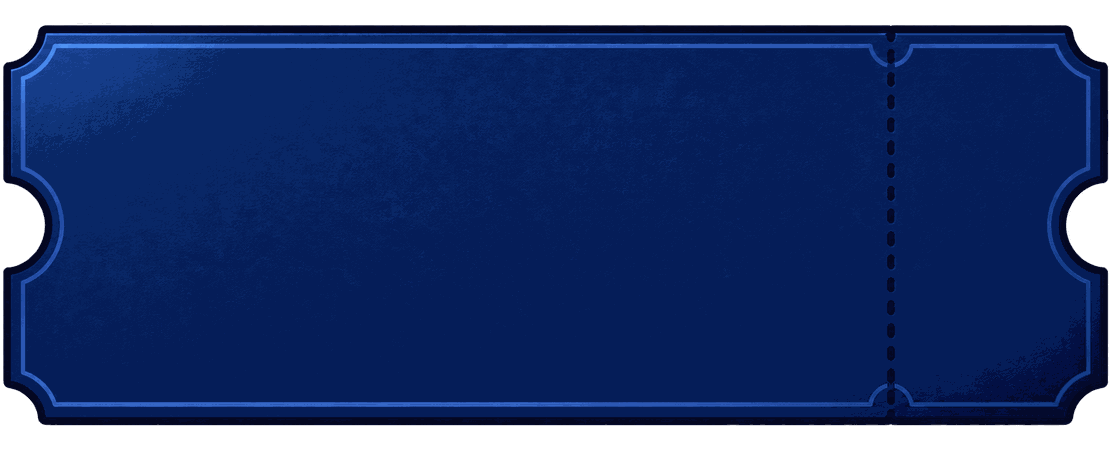
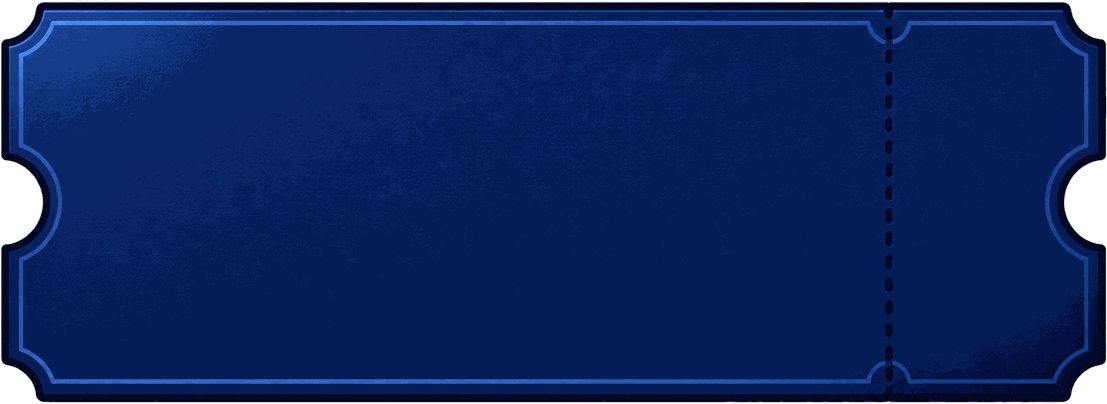
1.) Problem: History tickets were tall with the content crowded into the top half, an empty stub on unranked rounds and wide gaps between rows. 2.) Solution: Show the ticket at its natural size, put the score on the stub of every ticket with the RR change under it, and keep the stats and badges on o

Changed region(s): [[0.0, 0.0, 1.0, 1.0], [0.7986, 0.4752, 0.8293, 0.7129]]

diff --git a/src/styles/components/history.css b/src/styles/components/history.css
@@ -453,30 +453,32 @@
 .historyTrajectoryLegend [data-mode="casual"] i { color: var(--ca-mode-casual); transform: rotate(45deg); }
 .historyTrajectoryLegend [data-mode="ranked"] i { color: var(--ca-mode-ranked); clip-path: polygon(50% 0, 100% 35%, 82% 100%, 18% 100%, 0 35%); }
 
-/* Illustrated match ticket: fixed side slices preserve both punches and the whole stub. */
+/* Illustrated match ticket at its natural height (0.4 scale) so the punches never stretch; the stub always holds the score. */
 .historyRoundCard {
     position: relative;
     min-width: 0;
-    min-height: 232px;
-    padding: 24px 132px 24px 28px;
+    min-height: 162px;
+    display: flex;
+    align-items: center;
+    padding: 12px 112px 12px 36px;
     border: 0 solid transparent;
-    border-image: url('/art/history/ticket.png') 160 240 160 72 fill / 80px 120px 80px 36px / 0 stretch;
+    border-image: url('/art/history/ticket.png') 140 240 140 72 fill / 56px 96px 56px 29px / 0 stretch;
 }
-.historyRoundCardMain { min-width: 0; }
-.historyRoundCardTopline { display: flex; flex-wrap: wrap; align-items: center; gap: 8px; }
+.historyRoundCardMain { display: grid; gap: 14px; min-width: 0; }
+.historyRoundCardTopline { display: flex; flex-wrap: wrap; align-items: center; gap: 8px 10px; }
 .historyRoundCardSignal { width: 32px; height: 32px; object-fit: contain; }
-.historyRoundCardTopline time { color: #c3d5ed; font-size: 11px; }
-.historyRoundCardScore { display: inline-block; margin-top: 8px; color: #f3f7ff; font: 400 30px/1 var(--ca-font-display); }
-.historyRoundCardScoreLabel { margin-left: 8px; color: #b5c9e5; font-size: 10px; font-weight: 800; text-transform: uppercase; }
-.historyRoundCardMeters { display: flex; flex-wrap: wrap; gap: 8px 12px; margin-top: 16px; color: #c3d5ed; font-size: 11px; font-weight: 700; }
-.historyRoundCardMeters span { display: inline-flex; align-items: center; gap: 4px; }
-.historyRoundCardMeters svg { width: 13px; height: 13px; color: var(--scene-accent); }
-.historyRoundCardOutcome { position: absolute; inset: 24px 20px 24px auto; width: 76px; display: flex; flex-direction: column; align-items: center; justify-content: center; gap: 8px; text-align: center; }
-.historyRoundCardOutcome .historyRankBadge { transform: none; border: 0 !important; border-radius: 0 !important; padding: 0; background: none !important; box-shadow: none !important; opacity: 1; font: 400 18px/1.2 var(--ca-font-display); letter-spacing: .02em; }
+.historyRoundCardTopline time { color: #c3d5ed; font-size: 12px; }
+.historyRoundCardMarkers { display: inline-flex; gap: 10px; color: #ffdc80; font: 400 11px/1 var(--ca-font-display); text-transform: uppercase; white-space: nowrap; }
+.historyRoundCardMeters { display: flex; flex-wrap: wrap; gap: 8px 14px; color: #c3d5ed; font-size: 13px; font-weight: 700; }
+.historyRoundCardMeters span { display: inline-flex; align-items: center; gap: 5px; }
+.historyRoundCardMeters svg { width: 14px; height: 14px; color: var(--scene-accent); }
+.historyRoundCardOutcome { position: absolute; inset: 14px 18px 14px auto; width: 66px; display: flex; flex-direction: column; align-items: center; justify-content: center; gap: 2px; text-align: center; }
+.historyRoundCardScore { color: #f3f7ff; font: 400 24px/1 var(--ca-font-display); }
+.historyRoundCardScoreLabel { color: #b5c9e5; font-size: 10px; font-weight: 800; text-transform: uppercase; }
+.historyRoundCardOutcome .historyRankBadge { margin-top: 6px; transform: none; border: 0 !important; border-radius: 0 !important; padding: 0; background: none !important; box-shadow: none !important; opacity: 1; font: 400 15px/1.1 var(--ca-font-display); letter-spacing: .02em; }
 .historyRoundCardOutcome .historyRankBadge.isPositive { color: #6ff0b0; }
 .historyRoundCardOutcome .historyRankBadge.isNegative { color: #ff8a7a; }
-.historyRoundCardOutcome .historyRankBadge.isNeutral { color: #b5c9e5; font-size: 12px; }
-.historyRoundCardOutcome small { color: #ffdc80; font: 400 10px/1.3 var(--ca-font-display); text-transform: uppercase; }
+.historyRoundCardOutcome .historyRankBadge.isNeutral { color: #b5c9e5; font-size: 11px; }
 
 .historyRoundDeck { display: none; }
 
@@ -497,6 +499,8 @@
 
     .historyTableWrap { display: none; }
     .historyRoundDeck { display: grid; gap: 10px; }
+    .historyRoundCard { padding-left: 32px; }
+    .historyRoundCardMeters { display: grid; grid-template-columns: repeat(2, max-content); }
 }
 
 @media (max-width: 430px) {

diff --git a/src/pages/HistoryPage.jsx b/src/pages/HistoryPage.jsx
@@ -238,9 +238,8 @@ function HistoryRoundCard({ round, markers = [] }) {
           <ModeEmblem className="historyRoundCardSignal" tone={getModeTone(round)} size={32} />
           <span className="uiVisuallyHidden">{getModeLabelFromHistoryEntry(round)}</span>
           <time>{getPlayedAtLabel(round)}</time>
+          {markers.length > 0 ? <span className="historyRoundCardMarkers">{markers.map((marker) => <small key={marker}>{marker}</small>)}</span> : null}
         </div>
-        <strong className="historyRoundCardScore">{formatNumber(round.score)}</strong>
-        <span className="historyRoundCardScoreLabel">score</span>
         <div className="historyRoundCardMeters">
           <span><Target weight="bold" aria-hidden="true" /> {formatPercent(round.accuracyPercent)}</span>
           <span><Crosshair weight="bold" aria-hidden="true" /> {formatNumber(round.hits)}/{formatNumber(Number(round.hits) + Number(round.misses))}</span>
@@ -252,12 +251,11 @@ function HistoryRoundCard({ round, markers = [] }) {
           )}
         </div>
       </div>
-      {isRankedModeEntry(round) || markers.length > 0 ? (
-        <div className="historyRoundCardOutcome">
-          {isRankedModeEntry(round) ? <span className={`historyRankBadge ${getRankResultToneClassName(round)}`}>{getRankResultText(round)}</span> : null}
-          {markers.map((marker) => <small key={marker}>{marker}</small>)}
-        </div>
-      ) : null}
+      <div className="historyRoundCardOutcome">
+        <strong className="historyRoundCardScore">{formatNumber(round.score)}</strong>
+        <span className="historyRoundCardScoreLabel">score</span>
+        {isRankedModeEntry(round) ? <span className={`historyRankBadge ${getRankResultToneClassName(round)}`}>{getRankResultText(round)}</span> : null}
+      </div>
     </article>
   )
 }

diff --git a/tests/e2e/zz-history-ticket.spec.js b/tests/e2e/zz-history-ticket.spec.js
@@ -10,10 +10,10 @@ for (const [name, width, height] of [["desktop", 1440, 900], ["phone", 390, 844]
     const ticket = page.locator(".historyRoundCard").first()
     await expect(ticket).toBeVisible()
     await ticket.scrollIntoViewIfNeeded()
-    await page.waitForTimeout(1100)
+    await page.waitForTimeout(2000)
     const phase = process.env.ART_PHASE || "after"
-    await ticket.screenshot({ path: `${out}/${phase}-${name}-ticket.png` })
-    await page.screenshot({ path: `${out}/${phase}-${name}-page.png`, fullPage: true })
+    // Element and full-page captures come out blank here (inner scroll container), so take the viewport.
+    await page.screenshot({ path: `${out}/${phase}-${name}-page.png` })
     expect(await page.evaluate(() => document.documentElement.scrollWidth <= innerWidth)).toBe(true)
   })
 }
